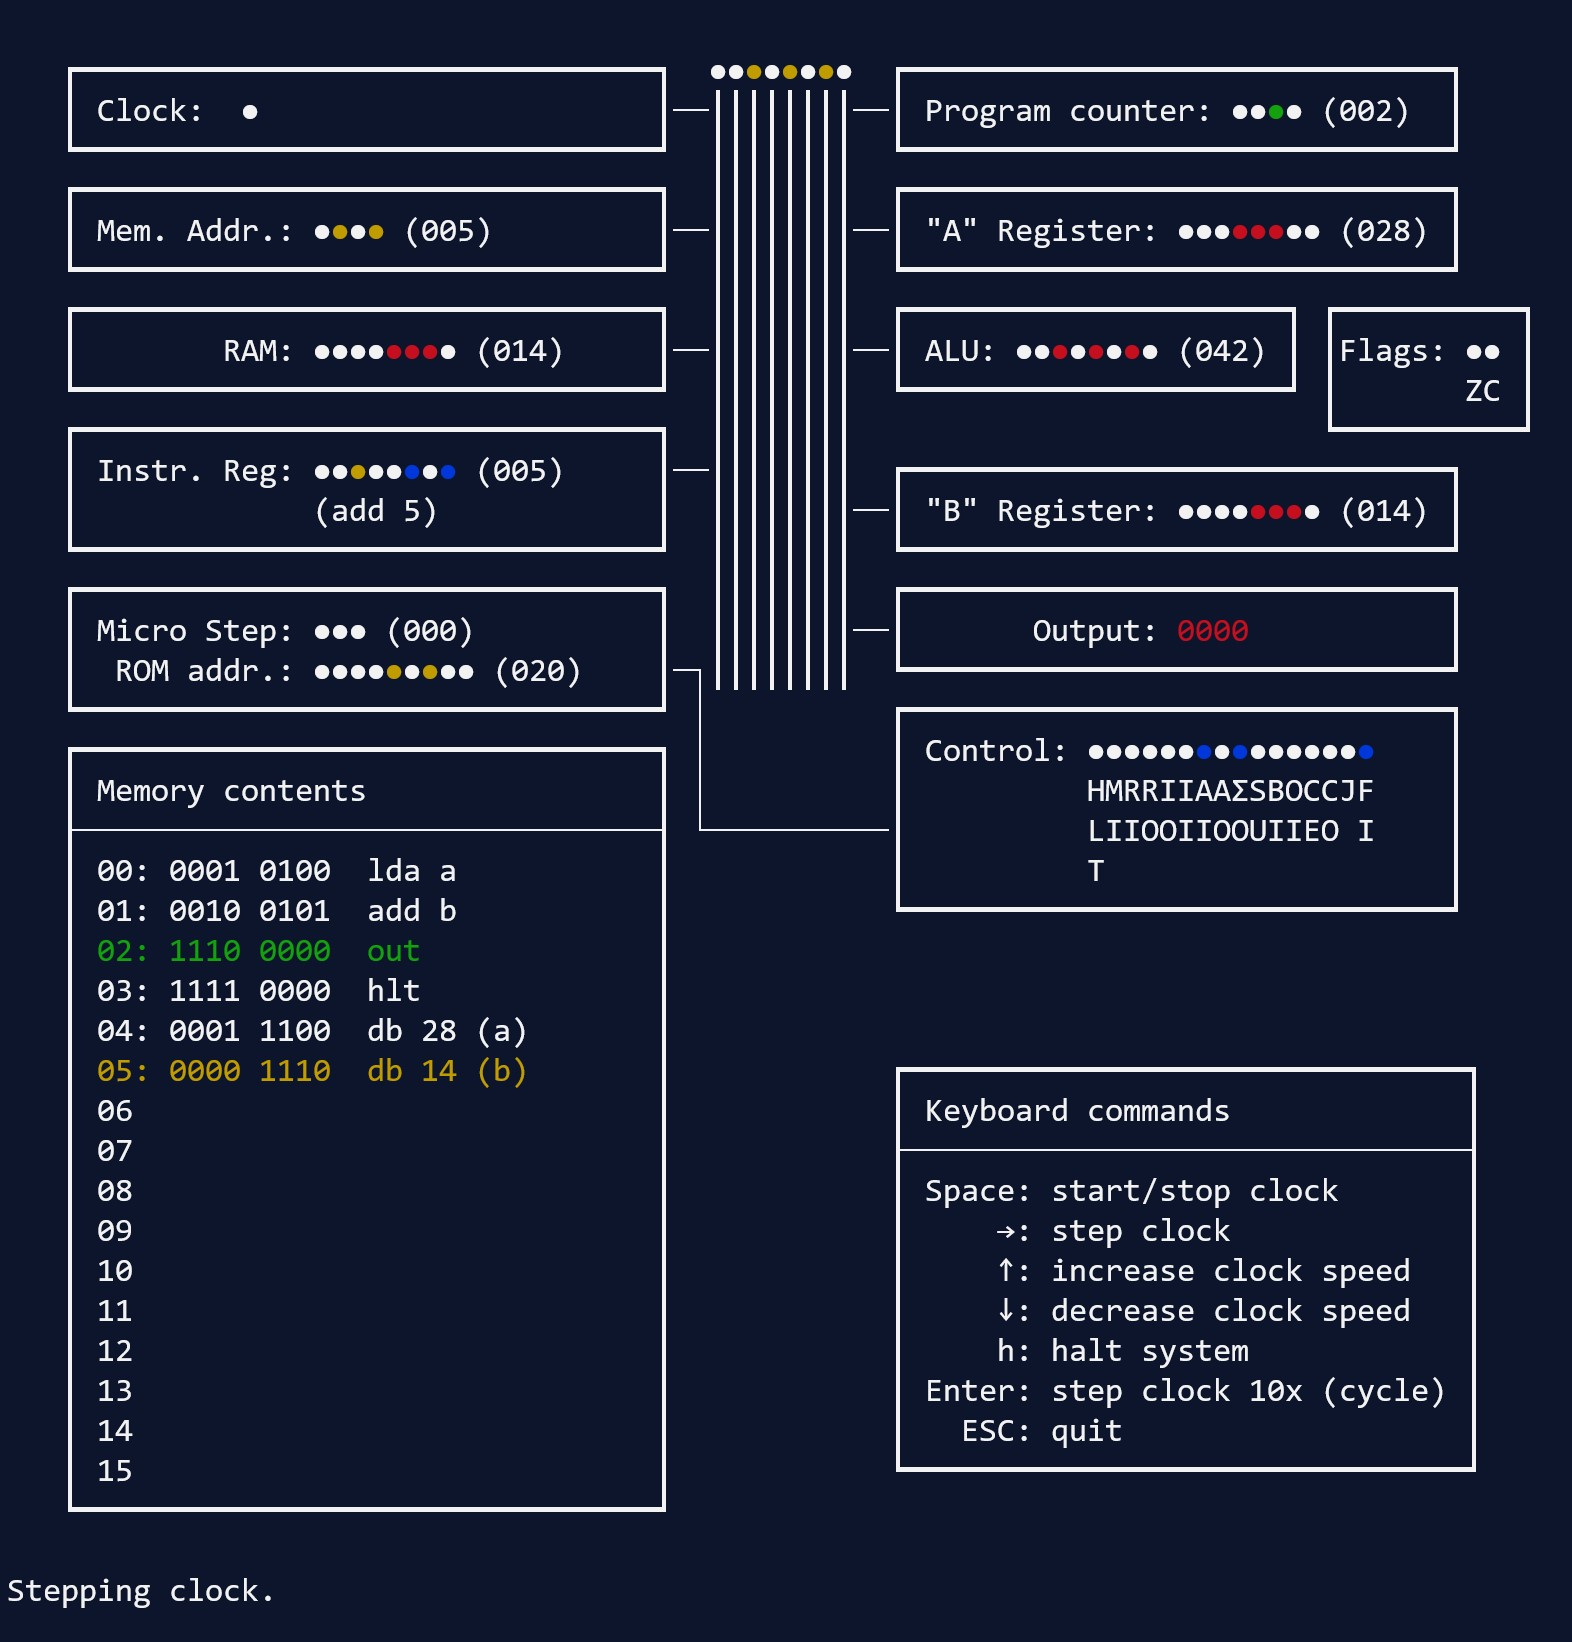
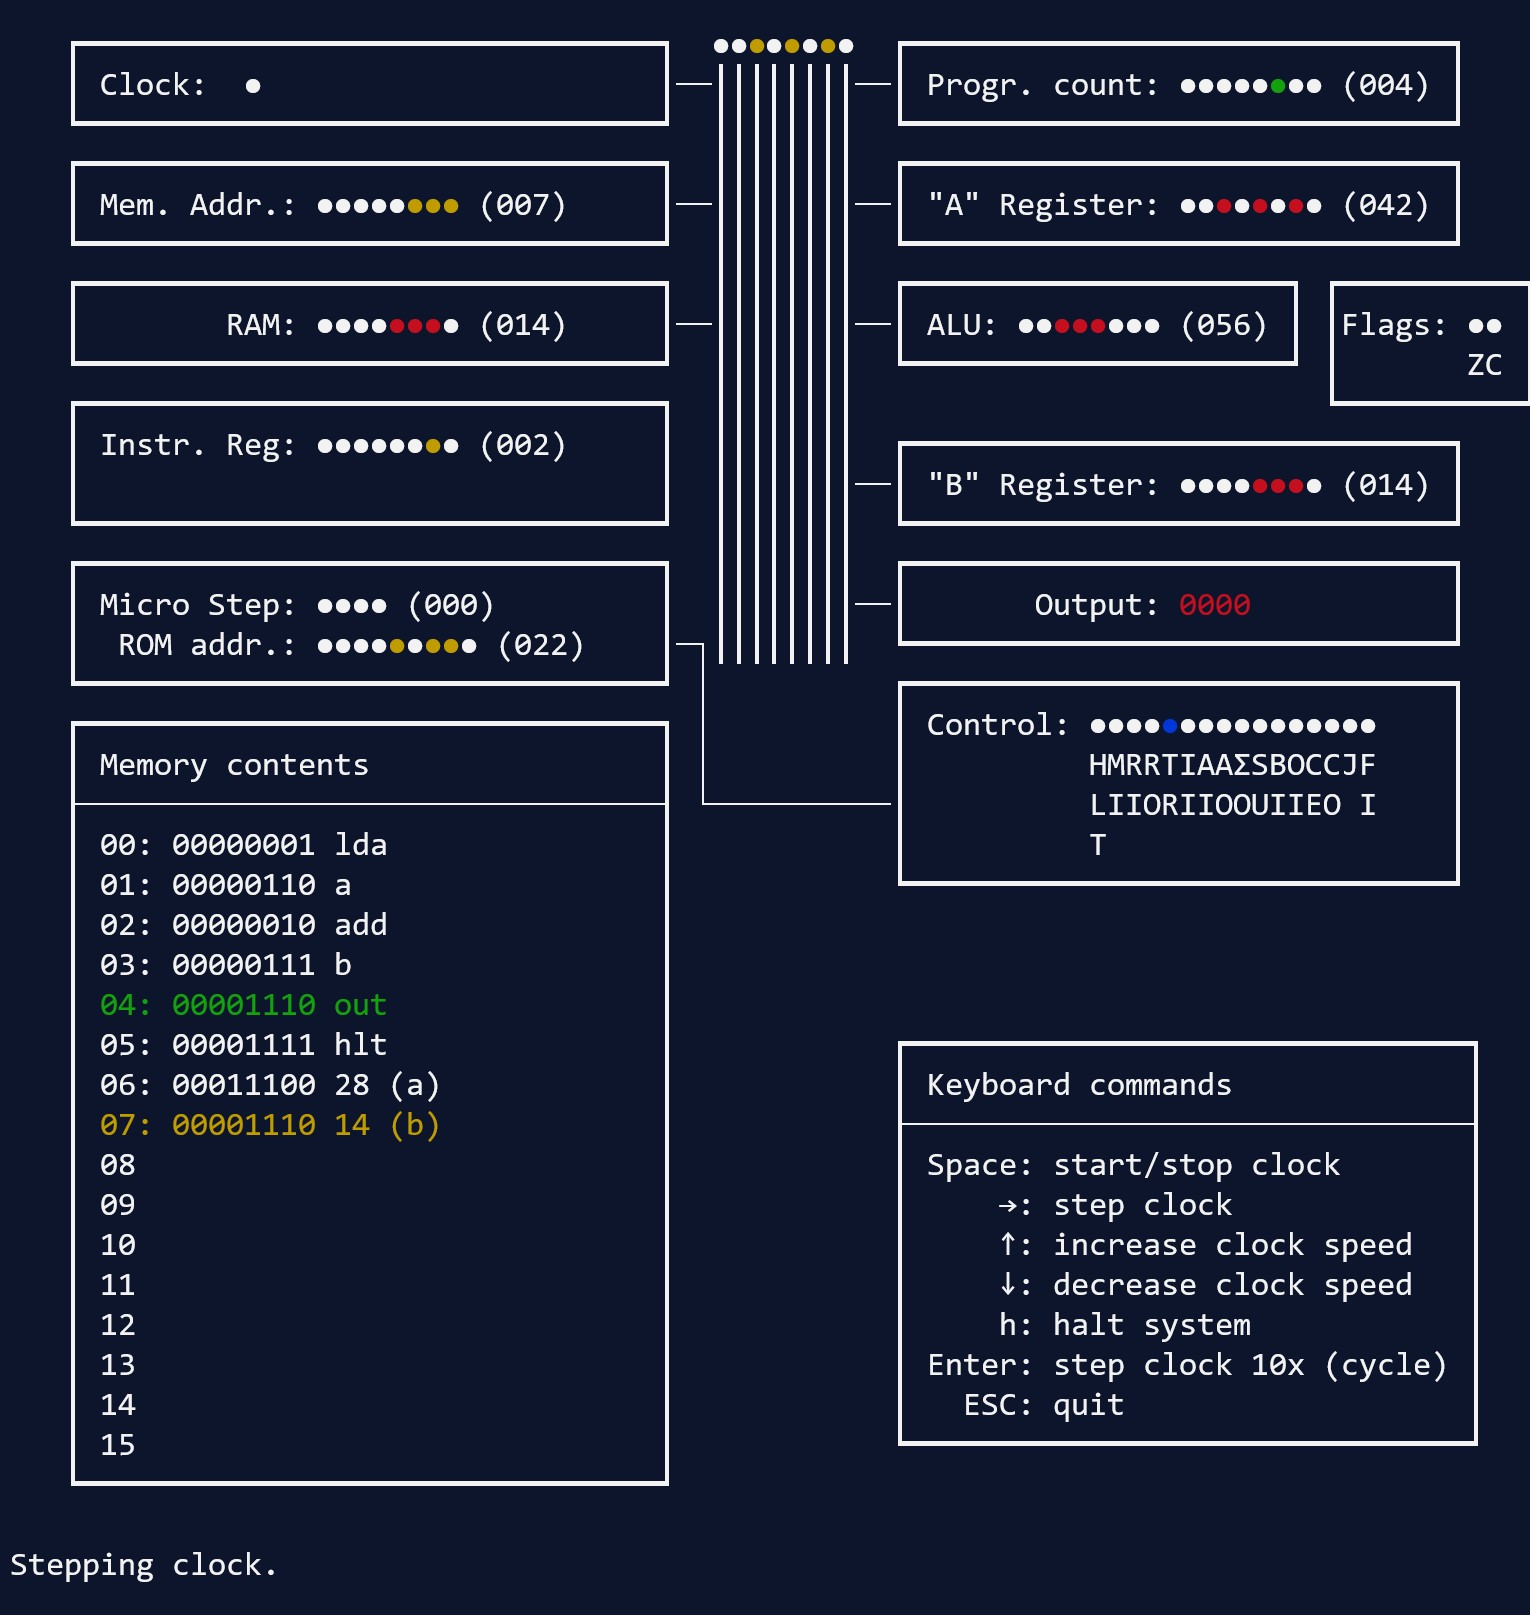
Update README.md

diff --git a/README.md b/README.md
@@ -1,5 +1,9 @@
-8bit breadboard computer simulator
-==================================
+8bit breadboard computer simulator (extended memory)
+====================================================
+
+This is an assembler + simulator/emulator of [Ben Eater's 8bit breadboard computer](https://www.youtube.com/playlist?list=PLowKtXNTBypGqImE405J2565dvjafglHU) with its RAM upgraded to 256 bytes following the instructions by [/u/MironV](https://www.reddit.com/r/beneater/comments/h8y28k).
+
+For Ben Eater's original architecture, see the [main branch](https://github.com/wmvanvliet/8bit/tree/main) of this repo.
 
 <img alt="Screenshot of the simulator in action" src="screenshot.jpg" width="600">
 
